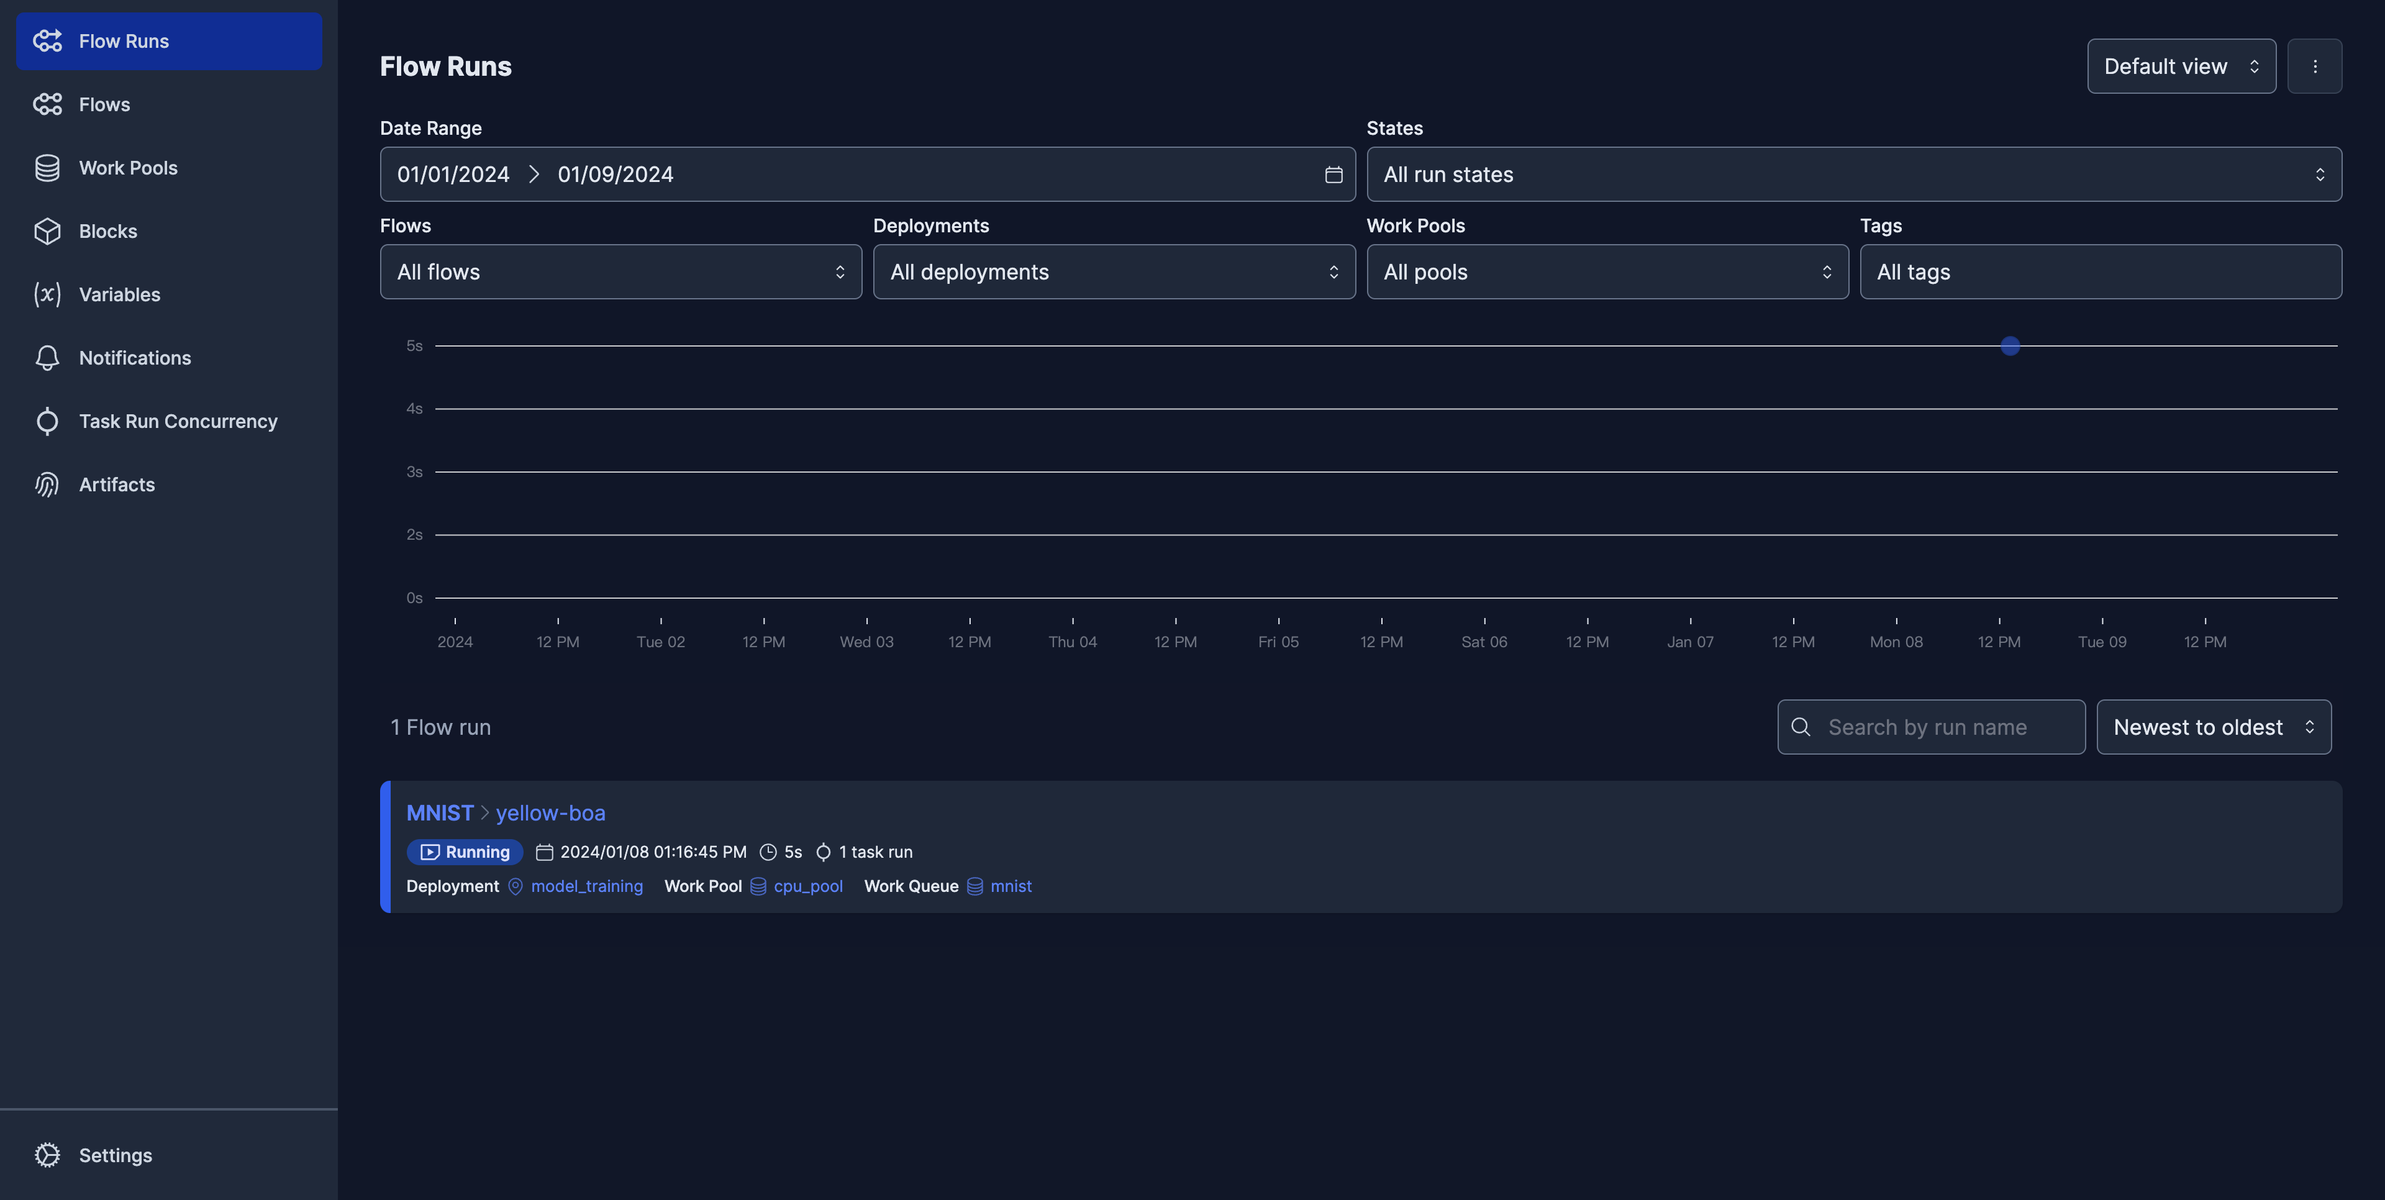
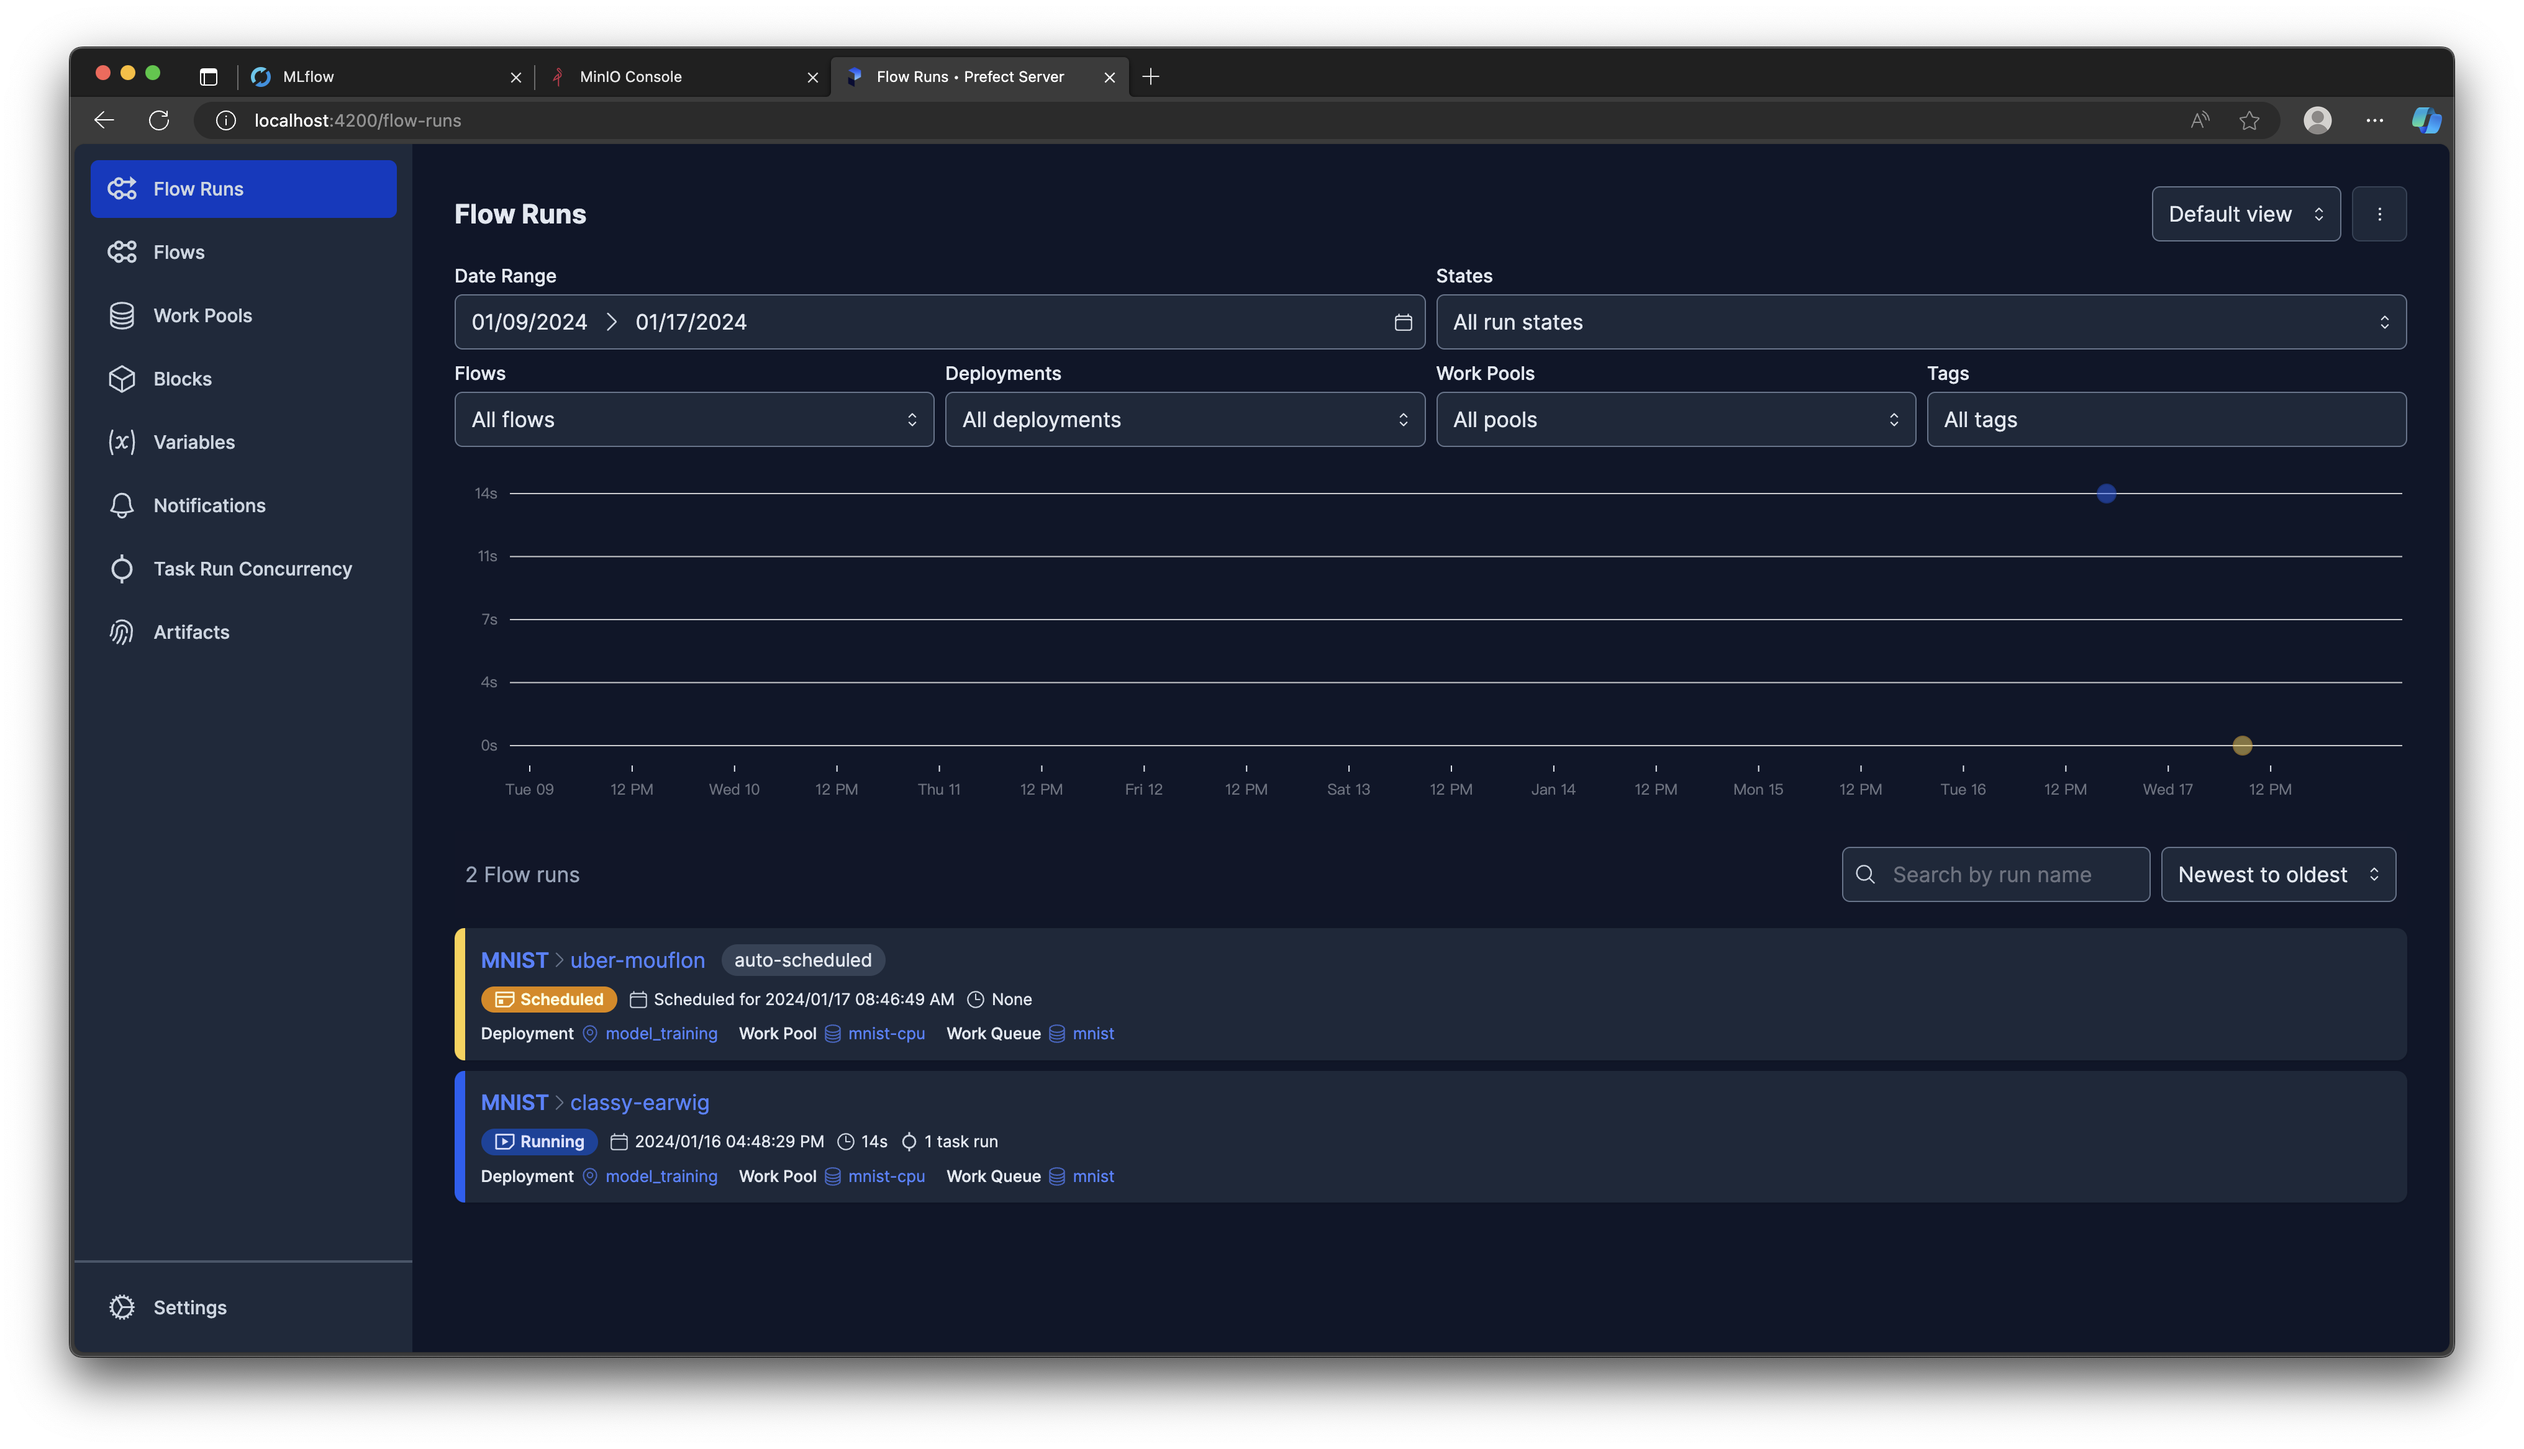
chore: 1. pool_name: 更換成mnist-cpu 2. flow.py: 更改讀取的環境變數 3. mlops-sys/flow_agent/mnist-cpu_mnist_local_cpu/docker-compose.yml: - 增加name - 移除原先的env_file設定 - 修改network與預設的範例相同
docs:
1. README: 更新成功執行的終端機輸出、截圖
2. 更新png/裡面的截圖
3. 在建立排程時增加修改MLOps-is-all-you-need/mlops-sys/flow_scheduler/.env.local的步驟

diff --git a/flows/flow-mnist/flow.py b/flows/flow-mnist/flow.py
@@ -223,8 +223,8 @@ def main():
 
     # 設定環境變數
     # 這邊很重要，如果程式沒有正確讀取這些環境變數，可能會造成MLflow無法追蹤實驗，或無法執行
-    os.environ["AWS_ACCESS_KEY_ID"] = os.getenv('MINIO_ROOT_USER')
-    os.environ["AWS_SECRET_ACCESS_KEY"] = os.getenv('MINIO_ROOT_PASSWORD')
+    os.environ["AWS_ACCESS_KEY_ID"] = os.getenv('AWS_ACCESS_KEY_ID')
+    os.environ["AWS_SECRET_ACCESS_KEY"] = os.getenv('AWS_SECRET_ACCESS_KEY')
     os.environ["MLFLOW_S3_ENDPOINT_URL"] = cfg['dataset']['dvc_s3_endpoint_url']
     os.environ["MLFLOW_TRACKING_URI"] = os.getenv('MLFLOW_TRACKING_URI')
     os.environ["LOGNAME"] = cfg['flow']['developer_name']  # 設定要紀錄在實驗的使用者名稱

diff --git a/wiki/3-MNIST-example/README.md b/wiki/3-MNIST-example/README.md
@@ -144,6 +144,13 @@ dvc push -r minio_s3
 
 ### 3. 模型的定期再訓練
 #### 3.1. 製作自動化排程
+打開`MLOps-is-all-you-need/mlops-sys/flow_scheduler/.env.local`，更改以下設定：
+```shell
+# FLOW_DIR = '../../flows/example_flow' # project directory of your flow.py
+改為
+FLOW_DIR = '../../flows/flow-mnist' # project directory of your flow.py
+```
+
 執行以下指令將排程資料上傳到Prefect伺服器：
 ````shell
 cd MLOps-is-all-you-need/mlops-sys/flow_scheduler/
@@ -152,19 +159,19 @@ docker compose -f docker-compose-local.yml --env-file ./.env.local up --build
 
 這個步驟的目的是將工作資料夾（就是`flow-mnist`）上傳到Prefect伺服器，並且製作排程。當容器成功建立，會看到包含以下文字的訊息：
 ````
-✔ Container flow_scheduler  Created
+ ✔ Container flow_scheduler
 Attaching to flow_scheduler
-flow_scheduler  | Created work pool 'cpu_pool'.
+flow_scheduler  | Created work pool 'mnist-cpu'.
 flow_scheduler  | Found flow 'MNIST'
 flow_scheduler  | Deployment YAML created at '/root/flows/main-deployment.yaml'.
 flow_scheduler  | Successfully uploaded 53 files to s3://prefect/main/model_training
 flow_scheduler  | Deployment 'MNIST/model_training' successfully created with id 
-flow_scheduler  | '44bf4823-0335-4275-808d-a3659b7f1b1a'.  # 在你的環境執行時，此id可能會與範例不同
+flow_scheduler  | '67d9ff64-66a7-4567-8075-531326d671d9'.  # 這個id可能隨著在不同環境執行而有所不同
 flow_scheduler  | 
 flow_scheduler  | To execute flow runs from this deployment, start an agent that pulls work from 
-flow_scheduler  | the 'cpu_pool' work pool:
+flow_scheduler  | the 'mnist-cpu' work pool:
 flow_scheduler  | 
-flow_scheduler  | $ prefect agent start -p 'cpu_pool'
+flow_scheduler  | $ prefect agent start -p 'mnist-cpu'
 flow_scheduler exited with code 0
 ````
 > 訊息顯示排程已上傳至Prefect伺服器，正等待Prefect Agent來執行這個排程，接下來就要啟動另一個容器來建立Prefect Agent。
